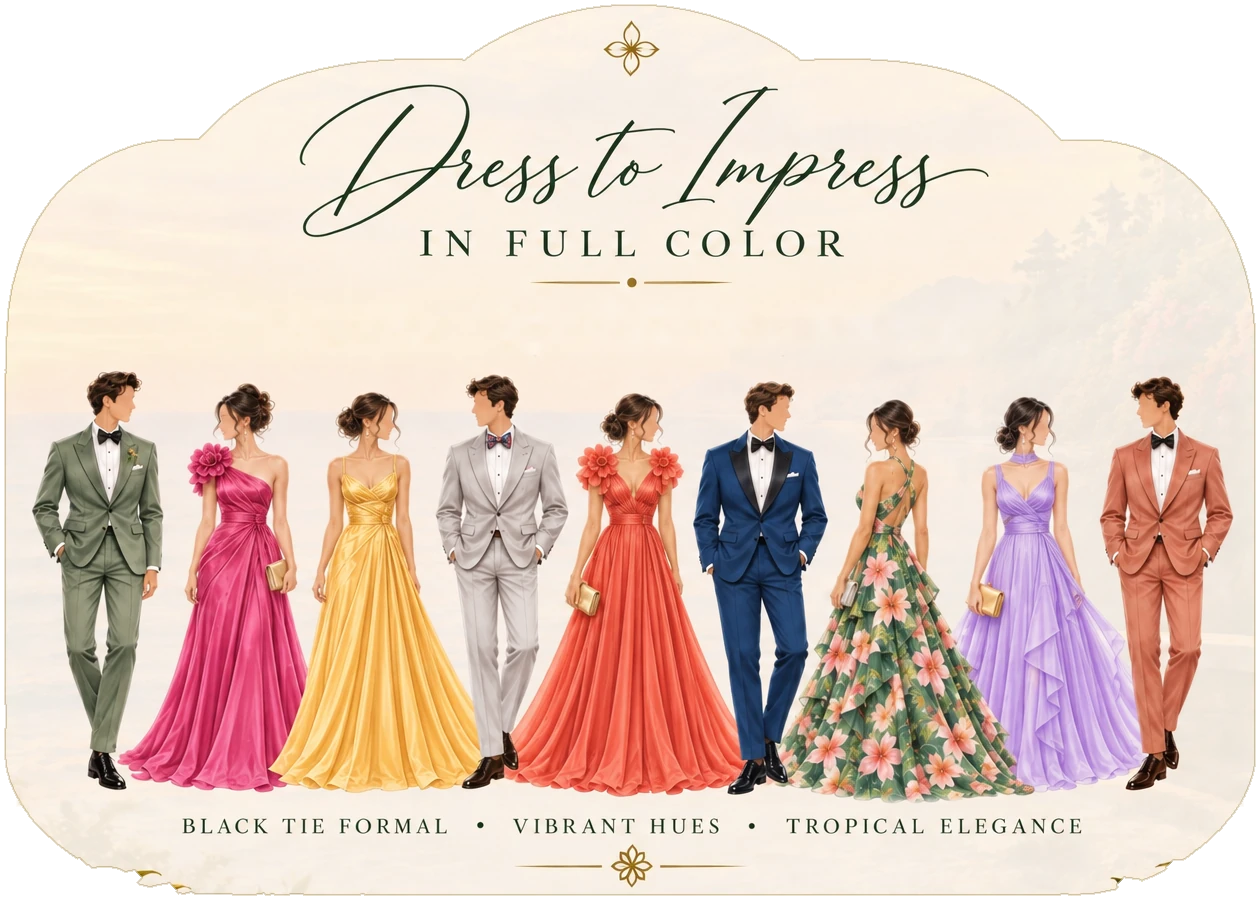
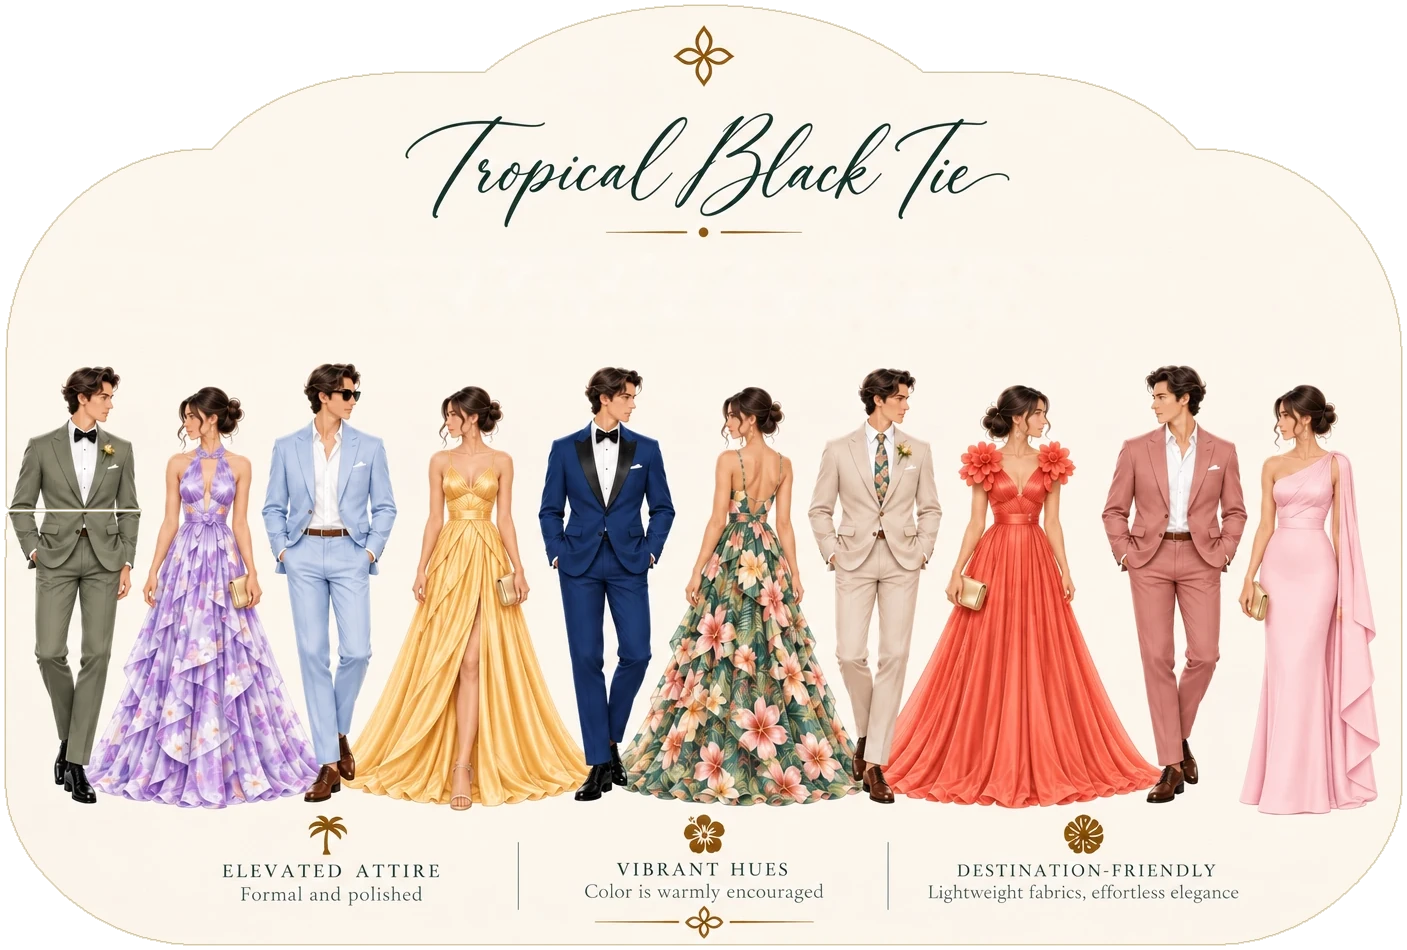
Dress code from the new mockups: Tropical Black Tie for Saturday, new welcome-party figures for Friday
Both panels cut on their hairlines with the painted copy removed; the
Saturday text now reads the tropical black tie wording. The tropical
panel's figures touch its edge, so its outline is taken from row and
column spans rather than hole-filling.

Claude-Session: https://claude.ai/code/session_01GqK2ENqeRUwQmtgcSZFd9X

diff --git a/index.html b/index.html
@@ -938,14 +938,14 @@ hr.rule{border:0;border-top:1px solid rgba(89,96,68,.2);margin:2.5em 0}
   <span class="eyebrow">04 — Dress code</span>
   <span class="eyebrow dress-day">Friday · The welcome party</span>
   <figure class="dress-plate" id="whitePlate">
-    <img src="assets/white-plate.webp" alt="Welcome party, all white attire. Eight guests in white: linen shirts with shorts or trousers, and long white dresses. Sunset cocktails, ocean views, good company." width="1268" height="894" loading="lazy" decoding="async">
+    <img src="assets/white-plate.webp" alt="Welcome party, all white attire. Eight guests in white: linen shirts with shorts or trousers, and white dresses and a jumpsuit. Sunset cocktails, ocean views, great company." width="1268" height="893" loading="lazy" decoding="async">
   </figure>
   <p class="dress-copy">Join us for sunset cocktails at Rock Bar! We’d love for everyone to wear white — think relaxed, elevated, and beach chic.</p>
   <span class="eyebrow dress-day">Saturday · The wedding</span>
   <figure class="dress-plate" id="dressPlate">
-    <img src="assets/dress-plate.webp" alt="Dress to impress, in full color. Black tie formal attire is requested, with vibrant colors and tropical hues warmly encouraged. Above all, come dressed in your formal best and ready to celebrate with us. Nine guests in colorful formalwear: a sage green tuxedo, gowns in pink, yellow, coral, floral and lavender, and suits in grey, navy and terracotta. Black tie formal, vibrant hues, tropical elegance." width="1255" height="885" loading="lazy" decoding="async">
+    <img src="assets/dress-plate.webp" alt="Tropical black tie. Ten guests in colourful formalwear: suits in sage, sky blue, navy, sand and terracotta; gowns in lilac floral, gold, green floral, coral and blush pink. Elevated attire, vibrant hues, destination-friendly." width="1407" height="950" loading="lazy" decoding="async">
   </figure>
-  <p class="dress-copy">Black tie formal attire is requested, with vibrant colors and tropical hues warmly encouraged. Above all, come dressed in your formal best and ready to celebrate with us.</p>
+  <p class="dress-copy">Tropical black tie attire is requested, with vibrant colors and tropical hues warmly encouraged. Lightweight fabrics and destination-friendly silhouettes are welcome. Above all, come dressed in your formal best and ready to celebrate with us.</p>
 </section>
 
 <!-- =======================================================================
